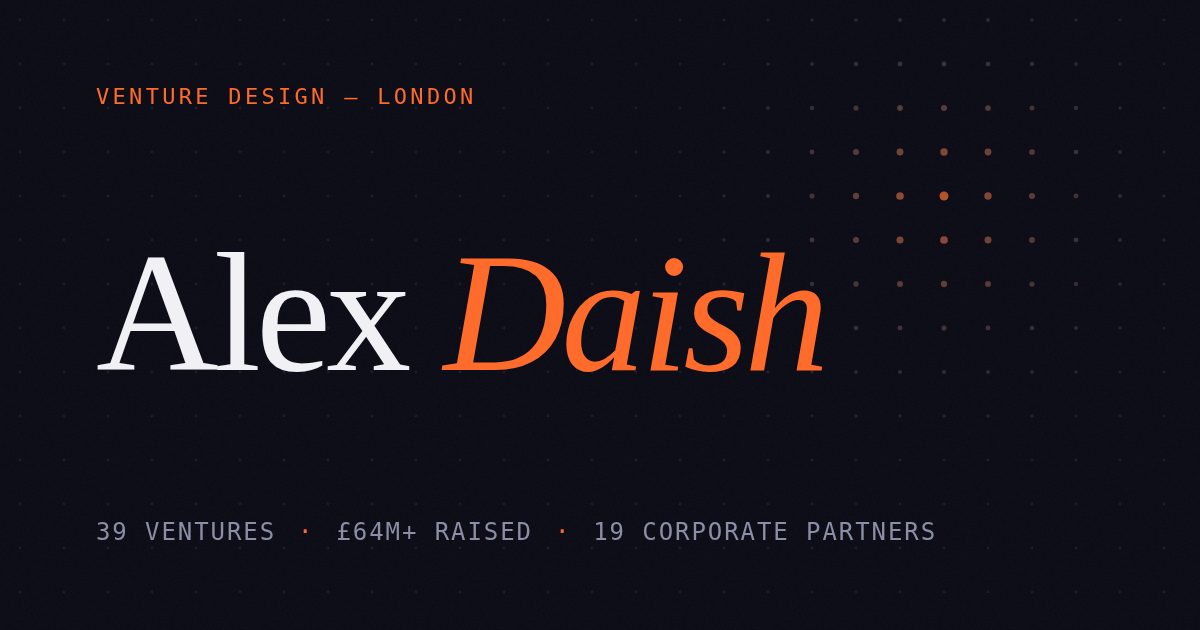
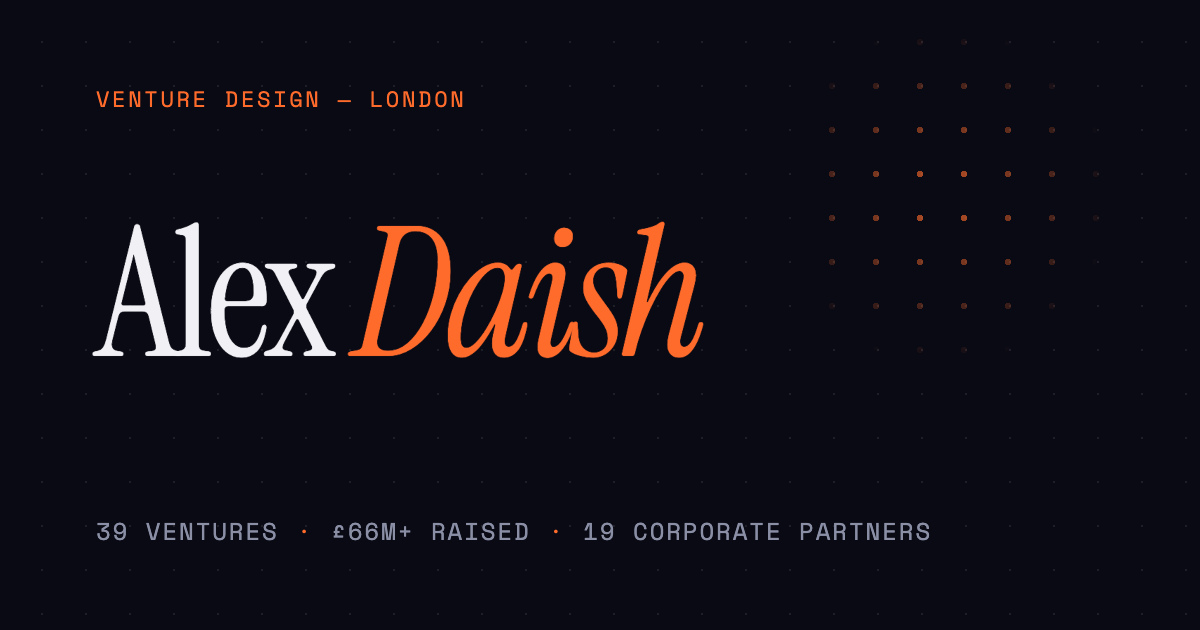
Add Marrow's $2M pre-seed, raise total to £66M+, link Long Dog (#8)
- Marrow: home page shows 'Raised pre-seed — $2M' with an Insurtech
  Gateway press link; ventures card marked funded with '$2M raised'.
- Confirmed funding count 12 -> 13 to match the funded cards.
- Total raised £64M+ -> £66M+ in the hero, intro stat, Twitter card
  text, ventures summary and the sharing image.
- Add Long Dog (longdog.win) to the memes line.

diff --git a/index.html b/index.html
@@ -14,7 +14,7 @@
   <meta property="og:image:height" content="630">
   <meta name="twitter:card" content="summary_large_image">
   <meta name="twitter:title" content="Alex Daish — Venture Design Lead">
-  <meta name="twitter:description" content="39 ventures built from scratch. £64M+ raised. Imagination is a professional skill.">
+  <meta name="twitter:description" content="39 ventures built from scratch. £66M+ raised. Imagination is a professional skill.">
   <meta name="twitter:image" content="https://daish.io/images/og-card.png">
   <link rel="icon" type="image/svg+xml" href="favicon.svg">
   <script type="application/ld+json">
@@ -1086,7 +1086,7 @@
     </h1>
     <p class="hero-tagline">I like to use my imagination to solve problems in exchange for money.</p>
     <div class="hero-meta">
-      <span>39 ventures</span><span class="dot">&middot;</span><span>&pound;64M+ raised</span><span class="dot">&middot;</span><span>19 corporate partners</span>
+      <span>39 ventures</span><span class="dot">&middot;</span><span>&pound;66M+ raised</span><span class="dot">&middot;</span><span>19 corporate partners</span>
     </div>
     <div class="hero-ctas">
       <a href="#ventures" class="hero-cta primary">See the ventures</a>
@@ -1159,7 +1159,7 @@
           <div class="stat-label">Concepts explored<br>(est.)</div>
         </div>
         <div class="reveal reveal-d3">
-          <div class="stat-number" data-count="64" data-prefix="&pound;" data-suffix="M+">£0</div>
+          <div class="stat-number" data-count="66" data-prefix="&pound;" data-suffix="M+">£0</div>
           <div class="stat-label">External capital<br>raised</div>
         </div>
         <div class="reveal reveal-d4">
@@ -1188,8 +1188,8 @@
           </div>
           <div class="venture-meta">
             <span class="venture-tags">Insurtech &middot; AI Infrastructure</span>
-            <span class="venture-outcome">In build</span>
-            <span class="venture-year">2025</span>
+            <span class="venture-outcome"><span class="venture-link-label">Raised pre-seed &mdash; $2M</span></span>
+            <span class="venture-year">2025 &middot; <a href="https://www.insurtechgateway.com/2026/10/22/marrow-raises-2m/" target="_blank" rel="noopener" class="press-link">Insurtech Gateway &nearr;</a></span>
           </div>
         </article>
 
@@ -1349,7 +1349,7 @@
           <strong>Retired dog illustrator.</strong> The dogs were not anatomically accurate. The retirement was mutual. Evidence survives at <a href="https://twitter.com/dogwatisaw" target="_blank" rel="noopener">@dogwatisaw</a>.
         </li>
         <li class="reveal reveal-d2">
-          Creator of several <strong>bad and/or unsuccessful memes.</strong> Including <a href="http://zlatanabramovic.tumblr.com/" target="_blank" rel="noopener">Zlatan Abramovi&cacute;</a>, <a href="http://animalsridingthechillwave.tumblr.com/" target="_blank" rel="noopener">Animals Riding The Chillwave</a>, and <a href="https://twitter.com/TwitturnerPrize" target="_blank" rel="noopener">The Twitturner Prize</a>. I maintain they were ahead of their time. No one agrees.
+          Creator of several <strong>bad and/or unsuccessful memes.</strong> Including <a href="http://zlatanabramovic.tumblr.com/" target="_blank" rel="noopener">Zlatan Abramovi&cacute;</a>, <a href="http://animalsridingthechillwave.tumblr.com/" target="_blank" rel="noopener">Animals Riding The Chillwave</a>, <a href="https://twitter.com/TwitturnerPrize" target="_blank" rel="noopener">The Twitturner Prize</a>, and <a href="https://longdog.win/" target="_blank" rel="noopener">Long Dog</a>. I maintain they were ahead of their time. No one agrees.
         </li>
         <li class="reveal reveal-d3">
           Genuinely believes that <strong>imagination is the most undervalued professional skill</strong> and that the best ideas come from people who refuse to take the brief at face value.

diff --git a/ventures.html b/ventures.html
@@ -421,7 +421,7 @@
       <span class="summary-label">Ventures greenlit</span>
     </div>
     <div class="summary-stat reveal">
-      <span class="summary-num">12</span>
+      <span class="summary-num">13</span>
       <span class="summary-label">Confirmed funding</span>
     </div>
     <div class="summary-stat reveal">
@@ -429,7 +429,7 @@
       <span class="summary-label">Still active</span>
     </div>
     <div class="summary-stat reveal">
-      <span class="summary-num">&pound;64M+</span>
+      <span class="summary-num">&pound;66M+</span>
       <span class="summary-label">Capital raised</span>
     </div>
   </div>
@@ -444,13 +444,14 @@
 
   <div class="venture-grid" id="ventureGrid">
 
-    <a href="https://www.onmarrow.com/" target="_blank" rel="noopener" class="v-card reveal" data-status="active" data-funded="false">
+    <a href="https://www.onmarrow.com/" target="_blank" rel="noopener" class="v-card reveal" data-status="active" data-funded="true">
       <div class="v-card-top">
         <span class="v-card-num">01</span>
         <span class="v-card-name">Marrow</span>
         <span class="v-card-arrow">&nearr;</span>
       </div>
       <div class="v-card-role">Strategy / Business Design</div>
+      <div class="v-card-funding">$2M raised</div>
       <div class="v-card-meta">
         <span class="v-tag partner">Aviva</span>
         <span class="v-tag year">2025</span>
